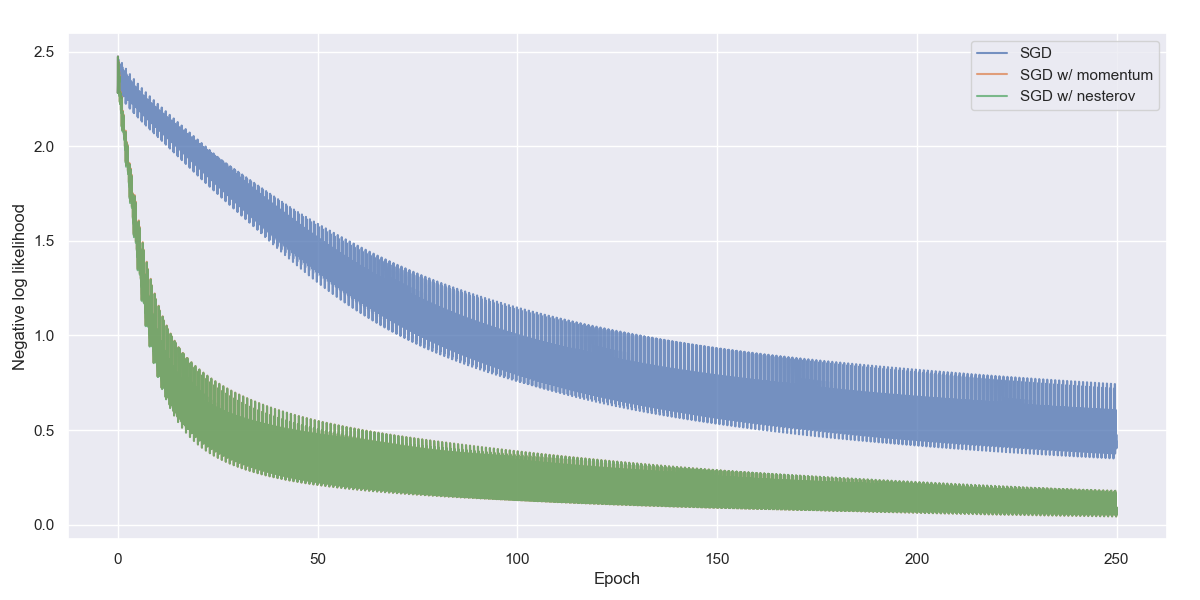
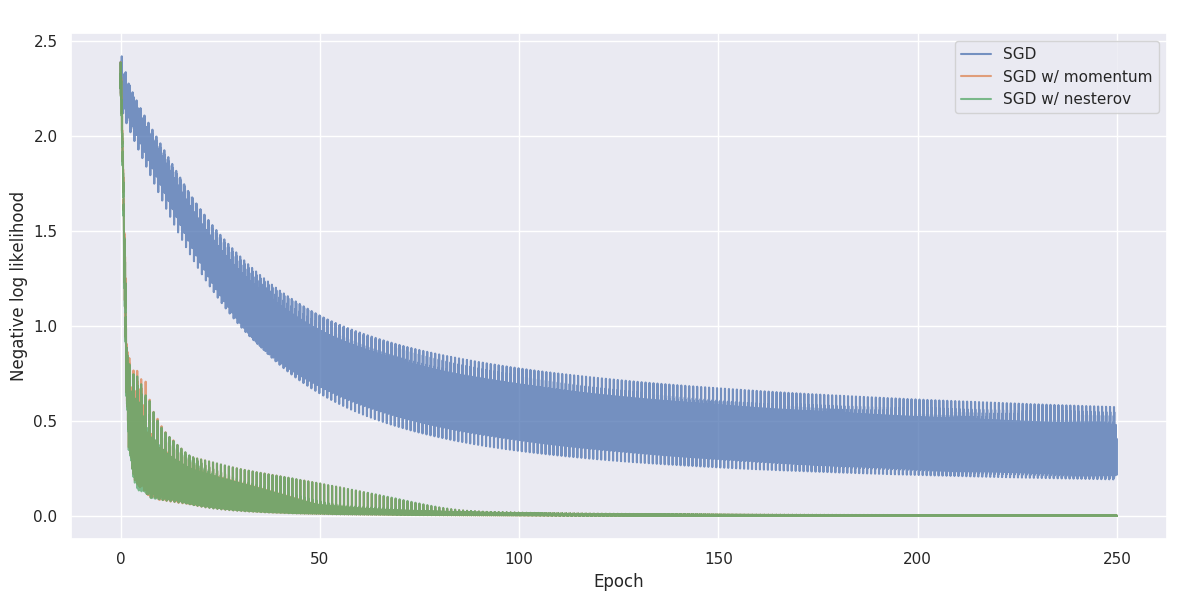
updated sgd, momentum and nesterov

diff --git a/main.py b/main.py
@@ -80,15 +80,6 @@ if __name__ == '__main__':
 
 	net = MLP(num_features=784, num_hidden=64, num_outputs=10)
 
-	sgd_nesterov_net = deepcopy(net)
-	sgd_nesterov_opt = optimizers.SGD(
-		params=sgd_nesterov_net.parameters(),
-		lr=1e-3,
-		mu=0.9,
-		nesterov=True
-	)
-	sgd_nesterov_loss = fit(sgd_nesterov_net, data[:4], sgd_nesterov_opt)
-
 	sgd_net = deepcopy(net)
 	sgd_opt = optimizers.SGD(
 		params=sgd_net.parameters(),
@@ -100,8 +91,18 @@ if __name__ == '__main__':
 	sgd_momentum_opt = optimizers.SGD(
 		params=sgd_momentum_net.parameters(),
 		lr=1e-3,
-		mu=0.9
+		mu=0.99
 	)
 	sgd_momentum_loss = fit(sgd_momentum_net, data[:4], sgd_momentum_opt)
 
+	sgd_nesterov_net = deepcopy(net)
+	sgd_nesterov_opt = optimizers.SGD(
+		params=sgd_nesterov_net.parameters(),
+		lr=1e-3,
+		mu=0.99,
+		nesterov=True
+	)
+	sgd_nesterov_loss = fit(sgd_nesterov_net, data[:4], sgd_nesterov_opt)
+	
 	misc.plot_losses([sgd_loss, sgd_momentum_loss, sgd_nesterov_loss], labels=['SGD', 'SGD w/ momentum', 'SGD w/ nesterov'], num_epochs=250)
+	

diff --git a/misc.py b/misc.py
@@ -4,7 +4,7 @@ import matplotlib.pyplot as plt
 import seaborn as sns
 from torch.utils import data
 
-def load_mnist(filename='data/mnist.npz', num_train=2048, num_val=256, num_test=512):
+def load_mnist(filename='data/mnist.npz', num_train=4096, num_val=256, num_test=512):
 	"""
 	Loads a subset of the grayscale MNIST dataset and returns it as a tuple.
 	"""

diff --git a/optimizers.py b/optimizers.py
@@ -40,8 +40,5 @@ class SGD(Optimizer):
                         param.data += v
                         group['v'][idx] = v
 
-                    #look_a_head = param.data + mu * v
-                    #v = mu * v - lr * look_a_head.grad.data
-
                 else:
                     param.data -= lr * param.grad.data
